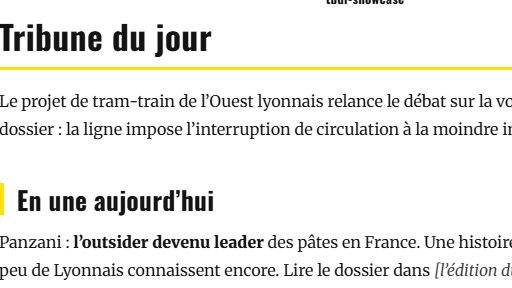
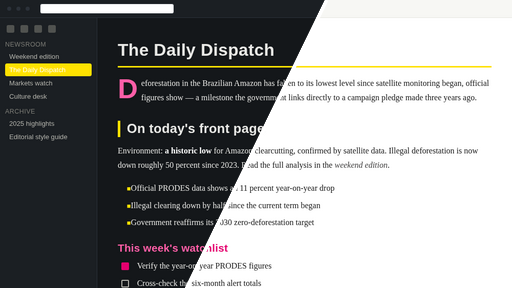
feat: tbdl v2.0.0 — fuchsia accent, dark mode contrast pass, split light/dark showcase
- Fuchsia (#e5006f) becomes the interactive accent: checked tasks, tags,
  H3, drop-cap; yellow stays reserved for editorial rules/dividers and
  buttons/toggles.
- Live Preview bullet dot pinned explicitly (black in light, fuchsia in
  dark) instead of inheriting the blue --text-accent.
- Dark mode contrast fixes: drop-cap, italic text, blockquote text,
  selection, table cells and H5/H6 were unreadable or invisible against
  the dark palette; all now adapt correctly.
- Showcase split into showcase-light.md / showcase-dark.md (English,
  international news content) highlighting headings, drop-cap, lists,
  task list, tags, blockquote, callout, table and code.
- New screenshot.png (diagonal dark/light split), screenshot-light.png,
  screenshot-dark.png.

diff --git a/theme.css b/theme.css
@@ -1,8 +1,11 @@
 /*
-  TBDL — Obsidian theme
+  TBDL — Obsidian theme (v2)
   Editorial news-magazine look: Merriweather (body) + Oswald (headings),
-  signature yellow accent (#FFE200), generous line-height, styled lists,
-  blockquotes, links and code.
+  signature yellow accent (#FFE200) for editorial rules/dividers and a
+  fuchsia accent (#e5006f) for interactive/highlight elements — buttons,
+  toggles, tags, checked tasks, H3, drop-cap — generous line-height,
+  styled lists, blockquotes, links and code. Dark mode is a first-class
+  palette tuned for reading comfort and contrast, not an afterthought.
   MIT License.
 */
 
@@ -30,6 +33,18 @@ body {
   --tdl-ink-soft: #3c3b3b;
   --tdl-blue: #1d3566;
   --tdl-red: #e85959;
+  --tdl-fuchsia: #e5006f;
+
+  /* Text-safe fuchsia: used where the color sits directly on the page
+     background (H3, drop-cap) rather than as a filled chip. Re-pointed
+     to a lighter tint in .theme-dark so it keeps ~6.4:1 contrast on the
+     dark background instead of the ~3.9:1 the base hue gives there. */
+  --tdl-fuchsia-text: var(--tdl-fuchsia);
+
+  /* Live Preview bullet dot (.list-bullet::after). Obsidian defaults it
+     to var(--text-accent); black in light mode per request, and fuchsia
+     in dark mode since black would vanish against the dark background. */
+  --tdl-bullet-bg: var(--tdl-ink);
 
   /* Obsidian variables (light) */
   --background-primary: #ffffff;
@@ -59,15 +74,15 @@ body {
 
   --h1-color: var(--tdl-ink);
   --h2-color: var(--tdl-ink);
-  --h3-color: var(--tdl-blue);
+  --h3-color: var(--tdl-fuchsia-text);
   --h4-color: var(--tdl-ink);
   --h5-color: var(--tdl-ink-soft);
   --h6-color: var(--tdl-ink-soft);
 
   --heading-font: "Oswald", Arial, sans-serif;
   --blockquote-border: var(--tdl-yellow);
-  --tag-background: var(--tdl-yellow);
-  --tag-color: var(--tdl-ink);
+  --tag-background: var(--tdl-fuchsia);
+  --tag-color: #fff;
 }
 
 /* ------------------------------------------------------------------ DARK -- */
@@ -82,6 +97,11 @@ body {
   --text-accent: #ffd84d;
   --text-selection: rgba(255, 216, 77, 0.28);
 
+  /* Lighter tint so direct-on-background fuchsia text (H3, drop-cap)
+     keeps solid contrast against the dark palette — see --tdl-fuchsia-text. */
+  --tdl-fuchsia-text: #ff5fa8;
+  --tdl-bullet-bg: var(--tdl-fuchsia);
+
   --interactive-normal: #20252b;
   --interactive-hover: #2a3038;
   --interactive-accent: var(--tdl-yellow);
@@ -93,8 +113,9 @@ body {
 
   --h1-color: #f5f5f0;
   --h2-color: #f5f5f0;
-  --h3-color: #ffd84d;
   --h4-color: #e9e9e6;
+  --h5-color: #b4b4ad;
+  --h6-color: #b4b4ad;
   --link-color: #ffd84d;
   --tdl-yellow-soft: #2a2616;
 }
@@ -148,20 +169,15 @@ body {
 .cm-s-obsidian .cm-header-3 {
   font-size: 1.3em;
   margin: 1.1em 0 0.4em;
-  color: var(--tdl-blue);
-}
-
-.theme-dark .markdown-preview-view h3,
-.theme-dark .cm-s-obsidian .cm-header-3 {
-  color: var(--text-accent);
+  color: var(--tdl-fuchsia-text);
 }
 
 .markdown-preview-view h4,
 .cm-s-obsidian .cm-header-4 { font-size: 1.1em; text-transform: uppercase; }
 .markdown-preview-view h5,
-.cm-s-obsidian .cm-header-5 { font-size: 1em;   text-transform: uppercase; color: var(--tdl-ink-soft); }
+.cm-s-obsidian .cm-header-5 { font-size: 1em;   text-transform: uppercase; color: var(--h5-color); }
 .markdown-preview-view h6,
-.cm-s-obsidian .cm-header-6 { font-size: 0.9em; text-transform: uppercase; color: var(--tdl-ink-soft); }
+.cm-s-obsidian .cm-header-6 { font-size: 0.9em; text-transform: uppercase; color: var(--h6-color); }
 
 /* ------------------------------------------------------------------ BODY -- */
 .markdown-preview-view,
@@ -185,7 +201,7 @@ body {
   float: left;
   line-height: 0.8;
   padding: 0.05em 0.12em 0 0;
-  color: var(--tdl-ink);
+  color: var(--tdl-fuchsia-text);
 }
 
 /* -------------------------------------------------------------- EMPHASIS -- */
@@ -203,6 +219,9 @@ body {
   font-style: italic;
   color: var(--tdl-ink-soft);
 }
+
+.theme-dark .markdown-preview-view em,
+.theme-dark .cm-s-obsidian .cm-em { color: var(--text-muted); }
 
 /* ----------------------------------------------------------------- LINKS -- */
 .markdown-preview-view a,
@@ -260,15 +279,23 @@ a.external-link {
 
 .theme-dark .markdown-preview-view ol > li::marker { color: var(--text-accent); }
 
+/* Live Preview bullet dot (edit mode). Obsidian defaults this to
+   var(--text-accent); we pin it explicitly instead — black in light mode,
+   fuchsia in dark mode via --tdl-bullet-bg (see root vars). */
+.markdown-source-view .list-bullet::after,
+.cm-line .list-bullet::after {
+  background-color: var(--tdl-bullet-bg);
+}
+
 /* Checkbox lists */
 .markdown-preview-view .task-list-item-checkbox {
-  border: 2px solid var(--tdl-ink-soft);
+  border: 2px solid var(--text-muted);
   border-radius: 2px;
   margin-right: 0.5em;
 }
 .markdown-preview-view .task-list-item.is-checked .task-list-item-checkbox {
-  background: var(--tdl-yellow);
-  border-color: var(--tdl-yellow);
+  background: var(--tdl-fuchsia);
+  border-color: var(--tdl-fuchsia);
 }
 
 /* ------------------------------------------------------------ BLOCKQUOTE -- */
@@ -284,6 +311,8 @@ a.external-link {
 
 .markdown-preview-view blockquote p { margin: 0 0 0.4em; }
 .markdown-preview-view blockquote p:last-child { margin-bottom: 0; }
+
+.theme-dark .markdown-preview-view blockquote { color: var(--text-muted); }
 
 /* ----------------------------------------------------------- CODE / PRE -- */
 .markdown-preview-view code,
@@ -371,6 +400,7 @@ a.external-link {
 .markdown-preview-view td {
   padding: 0.55em 0.8em;
   border-bottom: 1px solid var(--background-modifier-border);
+  color: var(--text-normal);
 }
 
 .markdown-preview-view tbody tr:nth-child(even) { background: var(--background-secondary); }
@@ -431,6 +461,7 @@ a.tag,
   background: var(--text-selection);
   color: var(--tdl-ink);
 }
+.theme-dark ::selection { color: var(--text-normal); }
 
 /* ------------------------------------------------------------ EDITOR OPS -- */
 .cm-s-obsidian .cm-formatting,
@@ -480,6 +511,7 @@ a.tag,
 .material-icons.mi-xl { font-size: 2.5em; }
 .material-icons.mi-yellow { color: var(--tdl-yellow); }
 .material-icons.mi-blue   { color: var(--tdl-blue); }
+.material-icons.mi-fuchsia { color: var(--tdl-fuchsia); }
 .material-icons.mi-muted  { color: var(--text-muted); }
 .material-icons.mi-accent { color: var(--text-accent); }
 

diff --git a/README.md b/README.md
@@ -1,16 +1,22 @@
 # tbdl — Obsidian theme
 
-An editorial news-magazine theme for Obsidian. Serif body type (Merriweather), condensed sans headings (Oswald), a signature yellow accent, a drop-cap on the first paragraph, styled lists, blockquotes, code, tables and callouts. Ships with the Google Material Icons font for use in notes, plus a dark variant.
+An editorial news-magazine theme for Obsidian. Serif body type (Merriweather), condensed sans headings (Oswald), a signature yellow accent, a fuchsia interactive accent, a drop-cap on the first paragraph, styled lists, blockquotes, code, tables and callouts. Ships with the Google Material Icons font for use in notes, plus a dedicated dark palette.
+
+## What's new in v2
+
+- **Fuchsia accent** (`#e5006f`, from tribunedelyon.fr): now the interactive color — buttons, toggles, checked tasks, tags, H3 headings and the drop-cap. Yellow stays the editorial/masthead accent (rules, dividers, H1/H2 bars).
+- **Bullet dot** in Live Preview (edit mode) is now explicitly black in light mode (was inheriting the blue `--text-accent`), and fuchsia in dark mode for visibility.
+- **Dark mode contrast pass**: fixed several elements that were unreadable or invisible in dark mode (drop-cap, italic text, blockquote text, text selection) and re-tuned the fuchsia tint used for on-background text so it keeps solid contrast against the dark palette.
 
 ## Features
 
 - **Typography**: Merriweather for the body, Oswald for headings and the UI.
-- **Editorial accents**: yellow (`#FFE200`) rules under H1, left bar on H2, blue H3, drop-cap on the first paragraph.
-- **Lists**: square yellow bullet markers, Oswald blue ordered-list numerals.
+- **Editorial accents**: yellow (`#FFE200`) rules under H1, left bar on H2, fuchsia (`#e5006f`) H3, fuchsia drop-cap on the first paragraph.
+- **Lists**: square yellow bullet markers (reading view), black/fuchsia bullet dot (Live Preview), Oswald blue ordered-list numerals.
 - **Blockquotes**: yellow left bar on a soft cream background.
 - **Code & tables**: styled code blocks, yellow header rows, themed frontmatter and callouts.
-- **Material Icons**: the Google Material Icons font is loaded; use `<span class="material-icons">home</span>` in notes and callouts. Sizes (`.mi-sm`/`.mi-lg`/`.mi-xl`) and colors (`.mi-yellow`/`.mi-blue`/`.mi-muted`/`.mi-accent`) are provided.
-- **Dark mode**: dedicated dark palette.
+- **Material Icons**: the Google Material Icons font is loaded; use `<span class="material-icons">home</span>` in notes and callouts. Sizes (`.mi-sm`/`.mi-lg`/`.mi-xl`) and colors (`.mi-yellow`/`.mi-blue`/`.mi-fuchsia`/`.mi-muted`/`.mi-accent`) are provided.
+- **Dark mode**: dedicated dark palette, tuned for reading comfort and contrast.
 - **Editor gutter** colors via `--line-number-color` / `--gutter-background` (for the note's line-number gutter).
 
 ## Install
@@ -24,9 +30,22 @@ Copy `manifest.json` and `theme.css` into `<vault>/.obsidian/themes/tbdl/`, then
 
 ## Showcase / screenshot
 
-![tbdl theme preview](screenshot.png)
+![tbdl theme preview — dark (left) / light (right)](screenshot.png)
 
-Open [`showcase.md`](showcase.md) in Obsidian (Reading view) to see every styled element at a glance — headings, drop-cap, lists, blockquote, callout, table, code, tags and Material Icons. It's the intended source for the store screenshot: set the window to ~512×288 (or screenshot and crop to 512×288) and replace `screenshot.png`.
+Two showcase notes highlight the theme's distinctive elements at a glance — headings (including the fuchsia H3), the drop-cap, a task list, an inline tag, a pull-quote, a callout, a table, code and Material Icons:
+
+- [`showcase-light.md`](showcase-light.md) → source for `screenshot-light.png`
+- [`showcase-dark.md`](showcase-dark.md) → source for `screenshot-dark.png`
+
+To export the store screenshot, for each file:
+
+1. Open the note in Obsidian, in Reading view.
+2. Toggle Settings → Appearance → Base color scheme to match the note (**Light** for `showcase-light.md`, **Dark** for `showcase-dark.md`).
+3. Resize the Obsidian window (or just the crop) to a **16:9** ratio.
+4. Screenshot and crop/scale to exactly **512×288 px**.
+5. Save as `screenshot-light.png` / `screenshot-dark.png`.
+
+`screenshot.png` — the main preview above and the community catalog submission — is the two combined side by side: the left half of `screenshot-dark.png` and the right half of `screenshot-light.png`, each resized to 256×288 before stitching.
 
 ## Recommended companion: line numbers in code blocks
 

diff --git a/showcase-light.md b/showcase-light.md
@@ -1,0 +1,53 @@
+---
+title: tbdl — showcase (light)
+tags:
+  - theme
+  - editorial
+---
+
+# The Daily Dispatch
+
+Deforestation in the Brazilian Amazon has fallen to its lowest level since satellite monitoring began, official figures show — a milestone the government links directly to a campaign pledge made three years ago.
+
+## On today's front page
+
+Environment: **a historic low** for Amazon clearcutting, confirmed by satellite data. Illegal deforestation is now down roughly 50 percent since 2023. Read the full analysis in the *[weekend edition]*.
+
+- Official PRODES data shows an 11 percent year-on-year drop
+- Illegal clearing down by half since the current term began
+- Government reaffirms its 2030 zero-deforestation target
+
+1. Rainfall data due from the national space institute
+2. Election season puts environmental policy in the spotlight
+3. Carbon credit markets react to the new figures
+
+### This week's watchlist
+
+- [x] Verify the year-on-year PRODES figures
+- [ ] Cross-check the six-month alert totals
+- [ ] Follow the election-season coverage
+
+#amazon #climate
+
+> "Every hectare spared now is one less to account for later."
+
+> [!note] <span class="material-icons mi-fuchsia">lightbulb</span> Did you know?
+> Deforestation alerts fell to just 1,325 km² between August and January — the lowest six-month total since satellite tracking began in 2014.
+
+## Contents
+
+| Section | Story | Read time |
+|---|---|---|
+| Climate | Amazon deforestation hits a historic low | 4 min |
+| Politics | Election season meets environmental policy | 6 min |
+| Markets | Carbon credit prices react | 3 min |
+
+```js
+// Example — syntax highlighting and Material icons
+const cities = ["Brasília", "Belém", "Manaus"];
+cities.forEach((c) => console.log(c));
+```
+
+---
+
+<sub>**tbdl** theme demo — Merriweather + Oswald, yellow + fuchsia accents, <span class="material-icons mi-fuchsia" style="font-size:0.9em">push_pin</span> Material icons. Open in **light mode** for the `screenshot-light.png` capture.</sub>

diff --git a/showcase-dark.md b/showcase-dark.md
@@ -1,0 +1,53 @@
+---
+title: tbdl — showcase (dark)
+tags:
+  - theme
+  - editorial
+---
+
+# The Daily Dispatch
+
+Deforestation in the Brazilian Amazon has fallen to its lowest level since satellite monitoring began, official figures show — a milestone the government links directly to a campaign pledge made three years ago.
+
+## On today's front page
+
+Environment: **a historic low** for Amazon clearcutting, confirmed by satellite data. Illegal deforestation is now down roughly 50 percent since 2023. Read the full analysis in the *[weekend edition]*.
+
+- Official PRODES data shows an 11 percent year-on-year drop
+- Illegal clearing down by half since the current term began
+- Government reaffirms its 2030 zero-deforestation target
+
+1. Rainfall data due from the national space institute
+2. Election season puts environmental policy in the spotlight
+3. Carbon credit markets react to the new figures
+
+### This week's watchlist
+
+- [x] Verify the year-on-year PRODES figures
+- [ ] Cross-check the six-month alert totals
+- [ ] Follow the election-season coverage
+
+#amazon #climate
+
+> "Every hectare spared now is one less to account for later."
+
+> [!note] <span class="material-icons mi-fuchsia">lightbulb</span> Did you know?
+> Deforestation alerts fell to just 1,325 km² between August and January — the lowest six-month total since satellite tracking began in 2014.
+
+## Contents
+
+| Section | Story | Read time |
+|---|---|---|
+| Climate | Amazon deforestation hits a historic low | 4 min |
+| Politics | Election season meets environmental policy | 6 min |
+| Markets | Carbon credit prices react | 3 min |
+
+```js
+// Example — syntax highlighting and Material icons
+const cities = ["Brasília", "Belém", "Manaus"];
+cities.forEach((c) => console.log(c));
+```
+
+---
+
+<sub>**tbdl** theme demo — Merriweather + Oswald, yellow + fuchsia accents, <span class="material-icons mi-fuchsia" style="font-size:0.9em">push_pin</span> Material icons. Open in **dark mode** for the `screenshot-dark.png` capture.</sub>
